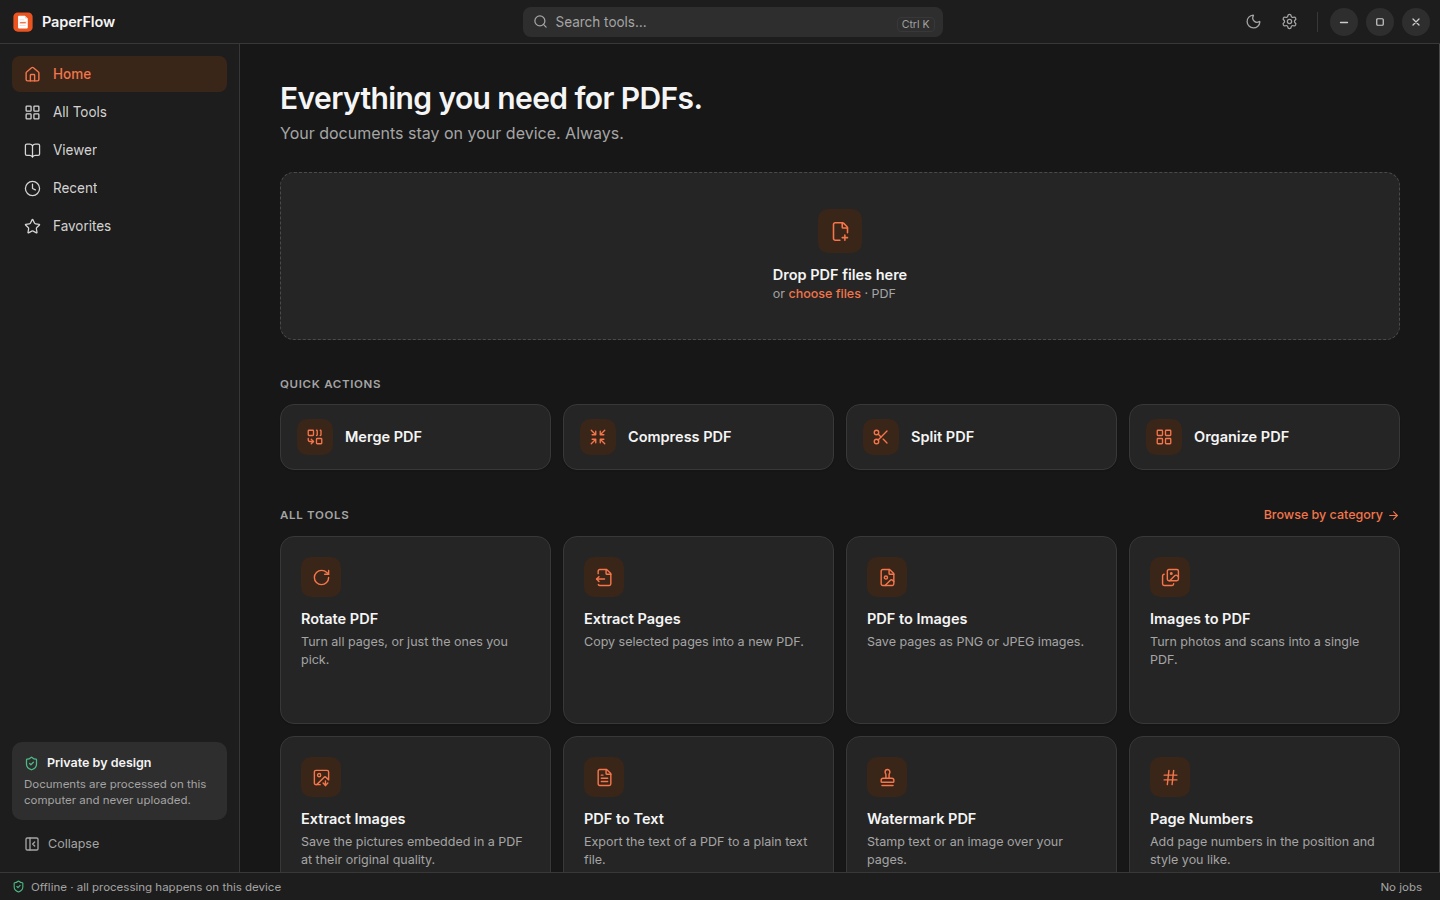
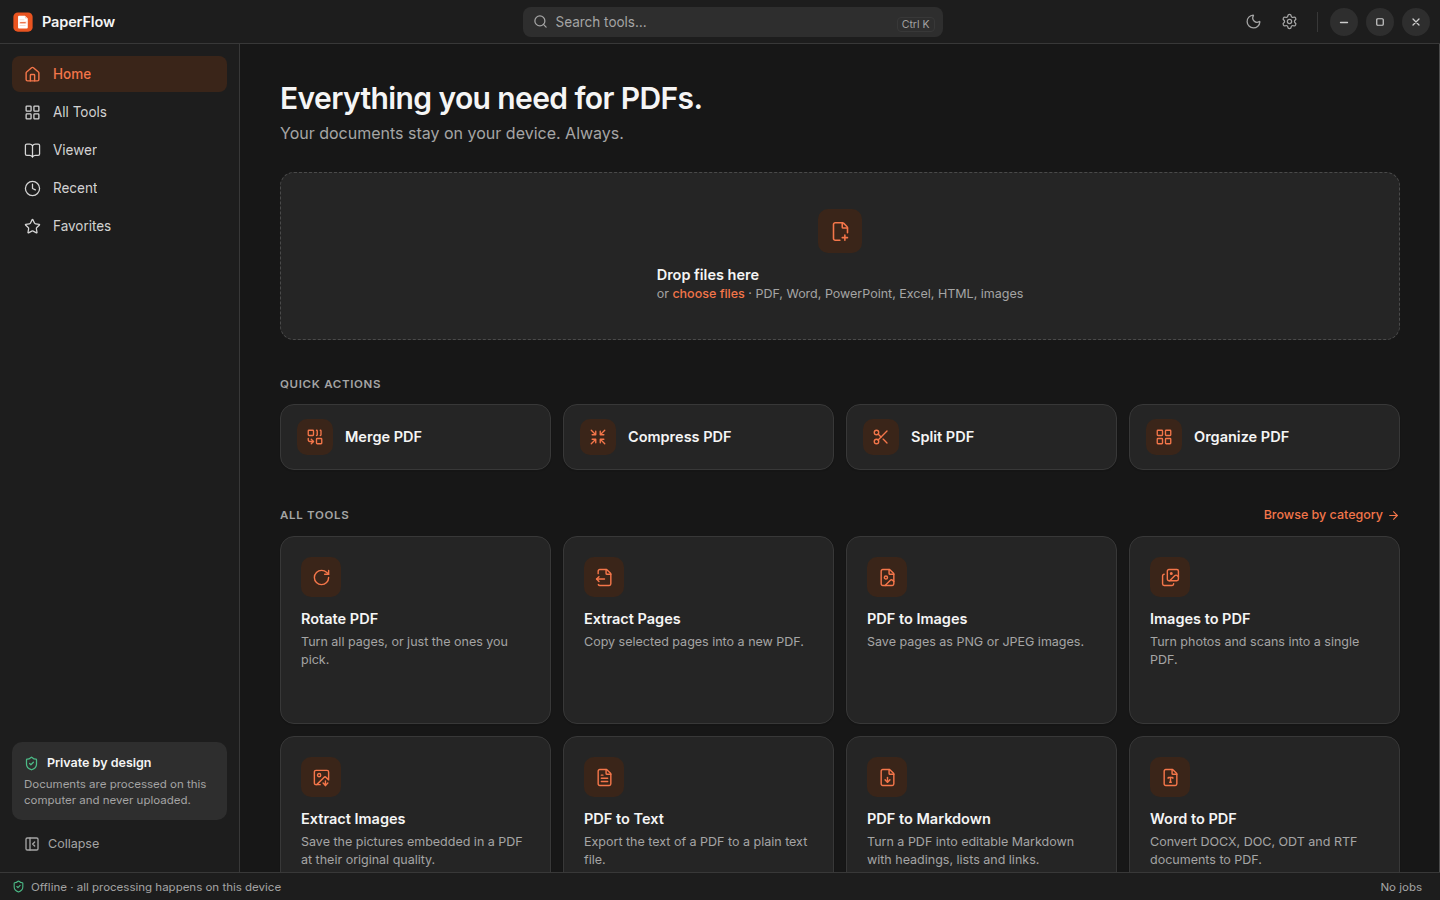
docs: document the Office, HTML and Markdown conversions

diff --git a/docs/FEATURES.md b/docs/FEATURES.md
@@ -23,12 +23,29 @@ unless you allow it in Settings; even then, an input file is never overwritten.
 | --- | --- | --- |
 | **Compress PDF** | Reduces file size with Ghostscript and reports the original size, new size and percentage saved. If a file cannot get smaller, PaperFlow says so and keeps an unchanged copy rather than a larger one. | Extreme (72 dpi images), Recommended (150 dpi), Light (300 dpi); convert to grayscale. |
 
-## Convert
+## Convert to PDF
+
+Word, PowerPoint, Excel and HTML files are converted by LibreOffice, running on your computer
+with a fresh private profile for every file. Macros never run, and linked content from the
+internet is never downloaded.
 
 | Tool | What it does | Options |
 | --- | --- | --- |
+| **Word to PDF** | Converts DOCX, DOC, DOCM, DOTX, ODT and RTF documents. Fonts that aren't installed are replaced with metric-compatible ones (Carlito for Calibri, Caladea for Cambria, Liberation for Arial, Times New Roman and Courier New), so line breaks match closely. | PDF/A for archiving. |
+| **PowerPoint to PDF** | Converts PPTX, PPT, PPSX and ODP presentations, one slide per page. Animations and embedded video are not included. | PDF/A for archiving. |
+| **Excel to PDF** | Converts XLSX, XLS, XLSM, ODS and CSV spreadsheets, every sheet, using each sheet's print settings. | Each sheet on one page; PDF/A for archiving. |
+| **HTML to PDF** | Converts saved web pages and HTML documents. Scripts don't run; complex web layouts may differ from a browser's rendering. | PDF/A for archiving. |
+| **Images to PDF** | See below. | |
+
+The result takes the document's name (`Report.docx` becomes `Report.pdf`).
+
+## Convert from PDF
+
+| Tool | What it does | Options |
+| --- | --- | --- |
+| **PDF to Markdown** | Rebuilds the document's structure as Markdown: headings from larger text (`#`, `##`, `###`), paragraphs with hyphenated words rejoined, bullet and numbered lists, bold, italic and links. Running headers, footers and page numbers repeated on most pages are dropped. Tables come out as plain text in reading order; scanned pages need OCR PDF first. | Page range; detect headings; separate pages with a rule. |
 | **PDF to Images** | Renders pages to images in a new folder. | PNG or JPEG, 72–600 dpi, JPEG quality, page range. |
-| **Images to PDF** | Turns images into one PDF, one image per page. JPEG photos are embedded unchanged (no quality loss) and EXIF rotation is respected; transparency is kept. | Page size (same as image, A4, Letter, Legal), orientation, margin. Accepts PNG, JPEG, WebP, BMP, TIFF and GIF. |
+| **Images to PDF** (Convert to PDF) | Turns images into one PDF, one image per page. JPEG photos are embedded unchanged (no quality loss) and EXIF rotation is respected; transparency is kept. | Page size (same as image, A4, Letter, Legal), orientation, margin. Accepts PNG, JPEG, WebP, BMP, TIFF and GIF. |
 | **Extract Images** | Saves the pictures embedded in a PDF at their original resolution and format. | Page range. |
 | **PDF to Text** | Exports text to a `.txt` file, with pages separated by form feeds. Warns when pages have no text (likely scans). | Keep layout or plain reading order; page range. |
 
@@ -72,14 +89,15 @@ full screen (`F11`). `Ctrl`-click thumbnails to select pages and extract them.
 
 ## Batch processing
 
-Tools marked "batch" (Rotate, Compress, PDF to Images, Extract Images, PDF to Text, Watermark,
-Page Numbers, Protect, Unlock, OCR) accept several files and process each one separately. Two
+Most tools (Rotate, Compress, every conversion except Images to PDF, Watermark, Page Numbers,
+Protect, Unlock, OCR) accept several files and process each one separately. Two
 jobs run at a time; the rest wait in the queue. Queued and running jobs can be cancelled; a
 cancelled job leaves no files behind.
 
 ## Dashboard, favorites and recent activity
 
-Drop files on the dashboard and PaperFlow suggests tools that fit them. Star a tool to keep it
+Drop files on the dashboard and PaperFlow suggests tools that fit them: the right converter for
+Word, PowerPoint, Excel, HTML and image files, and common tools for PDFs. Star a tool to keep it
 under Favorites. Recent activity lists file names, the tool, the outcome, the time and where the
 result was saved, with a button to show it in the file manager.
 

diff --git a/docs/BUILDING.md b/docs/BUILDING.md
@@ -13,7 +13,7 @@ sudo apt install libwebkit2gtk-4.1-dev libgtk-3-dev librsvg2-dev libayatana-appi
 - The processing engines, for the tools that use them:
 
 ```bash
-sudo apt install ghostscript poppler-utils qpdf tesseract-ocr tesseract-ocr-eng
+sudo apt install ghostscript poppler-utils qpdf tesseract-ocr tesseract-ocr-eng libreoffice-writer-nogui libreoffice-calc-nogui libreoffice-impress-nogui fonts-crosextra-carlito fonts-crosextra-caladea
 ```
 
 Without root, `scripts/dev-engines.sh` downloads the Ubuntu packages for any missing engine into
@@ -46,7 +46,7 @@ opens a screen directly, for example `#tool=organize&file&theme=dark`.
 | Frontend | `npm test` | Page ranges, organizer history, tool search, title bar window controls, form controls, tool validation and job submission, processing, completion and error states, navigation (Vitest, React Testing Library). |
 | Type checking | `npm run typecheck` | The whole interface, tests included. |
 | Backend | `npm run test:rust` | Path safety, output naming, option parsing, every PDF operation on generated documents (page order, rotation, text content, page counts), the job queue and cancellation, settings persistence, and the IPC contract on Tauri's mock runtime. |
-| Engines | included in `npm run test:rust` | Compression, rendering, text extraction, image extraction, encryption and wrong passwords, OCR of a rendered scan, and awkward file names, all against the real programs. Each test is skipped, with a note, when its engine is missing. |
+| Engines | included in `npm run test:rust` | Compression, rendering, text extraction, image extraction, encryption and wrong passwords, OCR of a rendered scan, Word, PowerPoint, Excel and HTML to PDF (with a remote image that must not be fetched), PDF to Markdown, and awkward file names, all against the real programs. Each test is skipped, with a note, when its engine is missing. |
 
 Lint and format the Rust code the way CI does:
 
@@ -72,8 +72,10 @@ distribution's engine packages.
 ### Snap
 
 The snap (`snap/snapcraft.yaml`) uses `core24` and the GNOME extension, runs under strict
-confinement, and bundles the engines, the URW fonts Ghostscript needs, Poppler's data and
-Tesseract language data. Its plugs are `home`, `removable-media` and `browser-support` (for
+confinement, and bundles the engines, the URW fonts Ghostscript needs, Poppler's data,
+Tesseract language data, LibreOffice (Writer, Calc and Impress without a desktop interface) and
+Office-compatible fonts. The build runs `scripts/relink-libreoffice.sh` so LibreOffice works from
+`$SNAP`. Its plugs are `home`, `removable-media` and `browser-support` (for
 WebKitGTK's web process sandbox), plus those of the GNOME extension. It has no `network` plug.
 
 Building locally needs LXD:
@@ -149,3 +151,5 @@ snapcraft upload --release=stable paperflow_X.Y.Z_amd64.snap
 | The window opens blank in development | Run `npm run dev` once so `public/pdfjs` is created, or use `npm run tauri dev`, which does it for you. |
 | Files on another drive cannot be opened in the snap | Connect the removable-media interface: `sudo snap connect paperflow:removable-media`. |
 | A protected PDF is refused by every tool | Unlock it first with Unlock PDF and its password. |
+| Office or HTML conversion says LibreOffice "is not available" | Install the packages listed under Requirements, or use the snap. |
+| A converted Word document's lines break differently | A font it uses isn't installed. Install the font, or `fonts-crosextra-carlito` and `fonts-crosextra-caladea` for Calibri and Cambria. |

diff --git a/README.md b/README.md
@@ -3,20 +3,21 @@
 **Your PDFs. Your Device. Your Privacy.**
 
 PaperFlow is an offline PDF toolkit for Linux. It merges, splits, compresses, organizes,
-converts, watermarks, protects and OCRs PDF files entirely on your computer. Nothing is
-uploaded, no account is needed, and every tool works without an internet connection.
+converts, watermarks, protects and OCRs PDF files, and turns Word, PowerPoint, Excel and HTML
+files into PDFs, entirely on your computer. Nothing is uploaded, no account is needed, and every
+tool works without an internet connection.
 
 ![PaperFlow dashboard](docs/screenshots/dashboard-light.png)
 
 ## Tools
 
-| Organize | Optimize | Convert | Edit | Security | OCR |
-| --- | --- | --- | --- | --- | --- |
-| Merge PDF | Compress PDF | PDF to Images | Watermark PDF | Protect PDF | OCR PDF |
-| Split PDF | | Images to PDF | Page Numbers | Unlock PDF | |
-| Organize PDF | | Extract Images | Metadata Editor | | |
-| Rotate PDF | | PDF to Text | | | |
-| Extract Pages | | | | | |
+| Organize | Optimize | Convert to PDF | Convert from PDF | Edit | Security | OCR |
+| --- | --- | --- | --- | --- | --- | --- |
+| Merge PDF | Compress PDF | Word to PDF | PDF to Images | Watermark PDF | Protect PDF | OCR PDF |
+| Split PDF | | PowerPoint to PDF | PDF to Text | Page Numbers | Unlock PDF | |
+| Organize PDF | | Excel to PDF | PDF to Markdown | Metadata Editor | | |
+| Rotate PDF | | HTML to PDF | Extract Images | | | |
+| Extract Pages | | Images to PDF | | | | |
 
 There is also a PDF viewer with search, zoom, thumbnails and full screen. See
 [docs/FEATURES.md](docs/FEATURES.md) for what each tool does.
@@ -34,7 +35,7 @@ sudo snap install paperflow
 ```
 
 The snap runs under strict confinement and includes everything it needs: Ghostscript, Poppler,
-qpdf, and Tesseract with language data for 17 languages. It can read and write files in your
+qpdf, Tesseract with language data for 17 languages, and LibreOffice for Office and HTML files. It can read and write files in your
 home folder and on removable drives, and has no network access.
 
 To install a snap you built yourself or downloaded from a release:
@@ -46,7 +47,8 @@ sudo snap install --dangerous paperflow_0.1.0_amd64.snap
 ### Debian / Ubuntu package
 
 Releases also include a `.deb`. It depends on the distribution's `ghostscript`,
-`poppler-utils`, `qpdf` and `tesseract-ocr` packages, which `apt` installs with it:
+`poppler-utils`, `qpdf` and `tesseract-ocr` packages, which `apt` installs with it, and
+recommends LibreOffice for the Word, PowerPoint, Excel and HTML converters:
 
 ```bash
 sudo apt install ./PaperFlow_0.1.0_amd64.deb
@@ -75,8 +77,8 @@ eval "$(scripts/dev-engines.sh)"
 npm run tauri dev
 ```
 
-`scripts/dev-engines.sh` makes qpdf and Tesseract available without root if your system lacks
-them. Building, testing and packaging are described in [docs/BUILDING.md](docs/BUILDING.md), and
+`scripts/dev-engines.sh` makes qpdf, Tesseract and LibreOffice available without root if your
+system lacks them. Building, testing and packaging are described in [docs/BUILDING.md](docs/BUILDING.md), and
 the design of the application in [docs/ARCHITECTURE.md](docs/ARCHITECTURE.md).
 
 ## Documentation

diff --git a/docs/ARCHITECTURE.md b/docs/ARCHITECTURE.md
@@ -35,12 +35,22 @@ every PDF operation, and a React interface that runs in the system WebKitGTK web
 | PDF to images, PDF to text, extract images, OCR rendering | Poppler (`pdftoppm`, `pdftotext`, `pdfimages`) | Accurate rendering and text extraction. |
 | Protect and unlock | qpdf | The reference implementation of PDF encryption. |
 | OCR | Tesseract | Mature, offline OCR that writes searchable PDF pages. |
+| Word, PowerPoint, Excel and HTML to PDF | LibreOffice (headless) | The only offline engine that renders Office formats faithfully. |
+| PDF to Markdown | Poppler (`pdftohtml -xml`) for the layout, Rust for the structure | Gives every text run's position and font; `pdf/ops/markdown.rs` turns that into headings, paragraphs and lists. |
 
 `services/engines.rs` finds each program in `$SNAP/usr/bin`, next to the executable,
 `PAPERFLOW_ENGINE_DIR` (development) or `PATH`. Engines run with a fixed locale, can be
 cancelled at any time (the process is killed), and report progress by their output where they
-provide it (Ghostscript prints each page). Inside the Snap, Ghostscript is pointed at its bundled
-support files with `GS_LIB`, and Tesseract at its language data with `TESSDATA_PREFIX`.
+provide it (Ghostscript prints each page). Each engine runs in its own process group, so cancelling
+also stops any helpers it started (LibreOffice launches several). Inside the Snap, Ghostscript is
+pointed at its bundled support files with `GS_LIB`, and Tesseract at its language data with
+`TESSDATA_PREFIX`.
+
+LibreOffice runs with a fresh profile in the job folder for every conversion. The profile turns off
+macros and blocks linked content from untrusted (remote) locations, so a document can neither run
+code nor reach the network. Ubuntu builds LibreOffice to live in `/usr/lib/libreoffice`;
+`scripts/relink-libreoffice.sh` makes the bundled copy relocatable (relative base folder, links
+inside the bundle), and PaperFlow puts LibreOffice's program folder first on the library path.
 
 ## The operation pipeline
 
@@ -146,7 +156,8 @@ src-tauri/src/
   commands/              Tauri commands
   services/              operations, jobs, engines, store, context
   pdf/                   document, assemble, overlay, geometry, fonts, images, ranges
-  pdf/ops/               organize, stamp, metadata, convert, compress, security, ocr
+  pdf/ops/               organize, stamp, metadata, convert, compress, security, ocr,
+                         office (Office and HTML to PDF), markdown (PDF to Markdown)
   filesystem/            paths, temp
   ipc_tests.rs           IPC contract tests on Tauri's mock runtime
 snap/ packaging/         Snap and AppStream metadata

diff --git a/docs/DEPENDENCIES.md b/docs/DEPENDENCIES.md
@@ -16,6 +16,10 @@ PaperFlow, so their licenses apply to the programs themselves.
 | [qpdf](https://qpdf.sourceforge.io) | Password protection and unlocking | Apache-2.0 | |
 | [Tesseract](https://github.com/tesseract-ocr/tesseract) | OCR | Apache-2.0 | |
 | [Tesseract language data](https://github.com/tesseract-ocr/tessdata) | OCR languages (17 plus orientation) | Apache-2.0 | |
+| [LibreOffice](https://www.libreoffice.org) (`soffice`, Writer, Calc and Impress without a desktop interface) | Word, PowerPoint, Excel and HTML to PDF | MPL-2.0 | Separate, unmodified program; its configuration is made relocatable when bundled. |
+| [Liberation fonts](https://github.com/liberationfonts/liberation-fonts) | Metric-compatible replacements for Arial, Times New Roman and Courier New | OFL-1.1 | |
+| [Carlito](https://github.com/googlefonts/carlito) and [Caladea](https://github.com/huertatipografica/Caladea) | Metric-compatible replacements for Calibri and Cambria | OFL-1.1 and Apache-2.0 | |
+| [DejaVu fonts](https://dejavu-fonts.github.io) | General fallback font | Bitstream Vera licence (permissive) | |
 | [URW base35 fonts](https://github.com/ArtifexSoftware/urw-base35-fonts) | Fonts Ghostscript needs | AGPL-3.0 with font exception | |
 
 ## Rust crates (linked into PaperFlow)
@@ -27,6 +31,8 @@ PaperFlow, so their licenses apply to the programs themselves.
 | [lopdf](https://crates.io/crates/lopdf) | PDF reading and writing | MIT |
 | [image](https://crates.io/crates/image) | Decoding images for Images to PDF and watermarks | MIT OR Apache-2.0 |
 | [flate2](https://crates.io/crates/flate2) | Compressing embedded images | MIT OR Apache-2.0 |
+| [quick-xml](https://crates.io/crates/quick-xml) | Reading Poppler's layout for PDF to Markdown | MIT |
+| [libc](https://crates.io/crates/libc) | Stopping an engine's whole process group on cancel | MIT OR Apache-2.0 |
 | serde, serde_json | Serialization | MIT OR Apache-2.0 |
 | chrono | Dates in metadata and activity | MIT OR Apache-2.0 |
 | uuid | Job ids | MIT OR Apache-2.0 |

diff --git a/docs/PRIVACY.md b/docs/PRIVACY.md
@@ -13,6 +13,9 @@ PaperFlow is built so that your documents never leave your computer.
   job that needs it, never on the command line (where other programs could see it), never in a
   file, and never in a log. The recent activity list does not include tool settings.
 - It does not modify your original files.
+- It does not run macros or scripts from documents. Word, PowerPoint, Excel and HTML files are
+  converted by LibreOffice with macros disabled and linked internet content blocked, and HTML is
+  never executed.
 
 ## What PaperFlow keeps on your computer
 

diff --git a/docs/screenshots/README.md b/docs/screenshots/README.md
@@ -12,6 +12,8 @@ They show the sample document `tests/fixtures/sample-report.pdf`.
 | `watermark-light.png` | Watermark PDF with live preview |
 | `page-numbers-dark.png` | Page Numbers with live preview |
 | `compress-dark.png` | Compress PDF |
+| `word-to-pdf-light.png` | Word to PDF |
+| `pdf-to-markdown-dark.png` | PDF to Markdown |
 | `settings-light.png` | Settings |
 
 ## Regenerating
